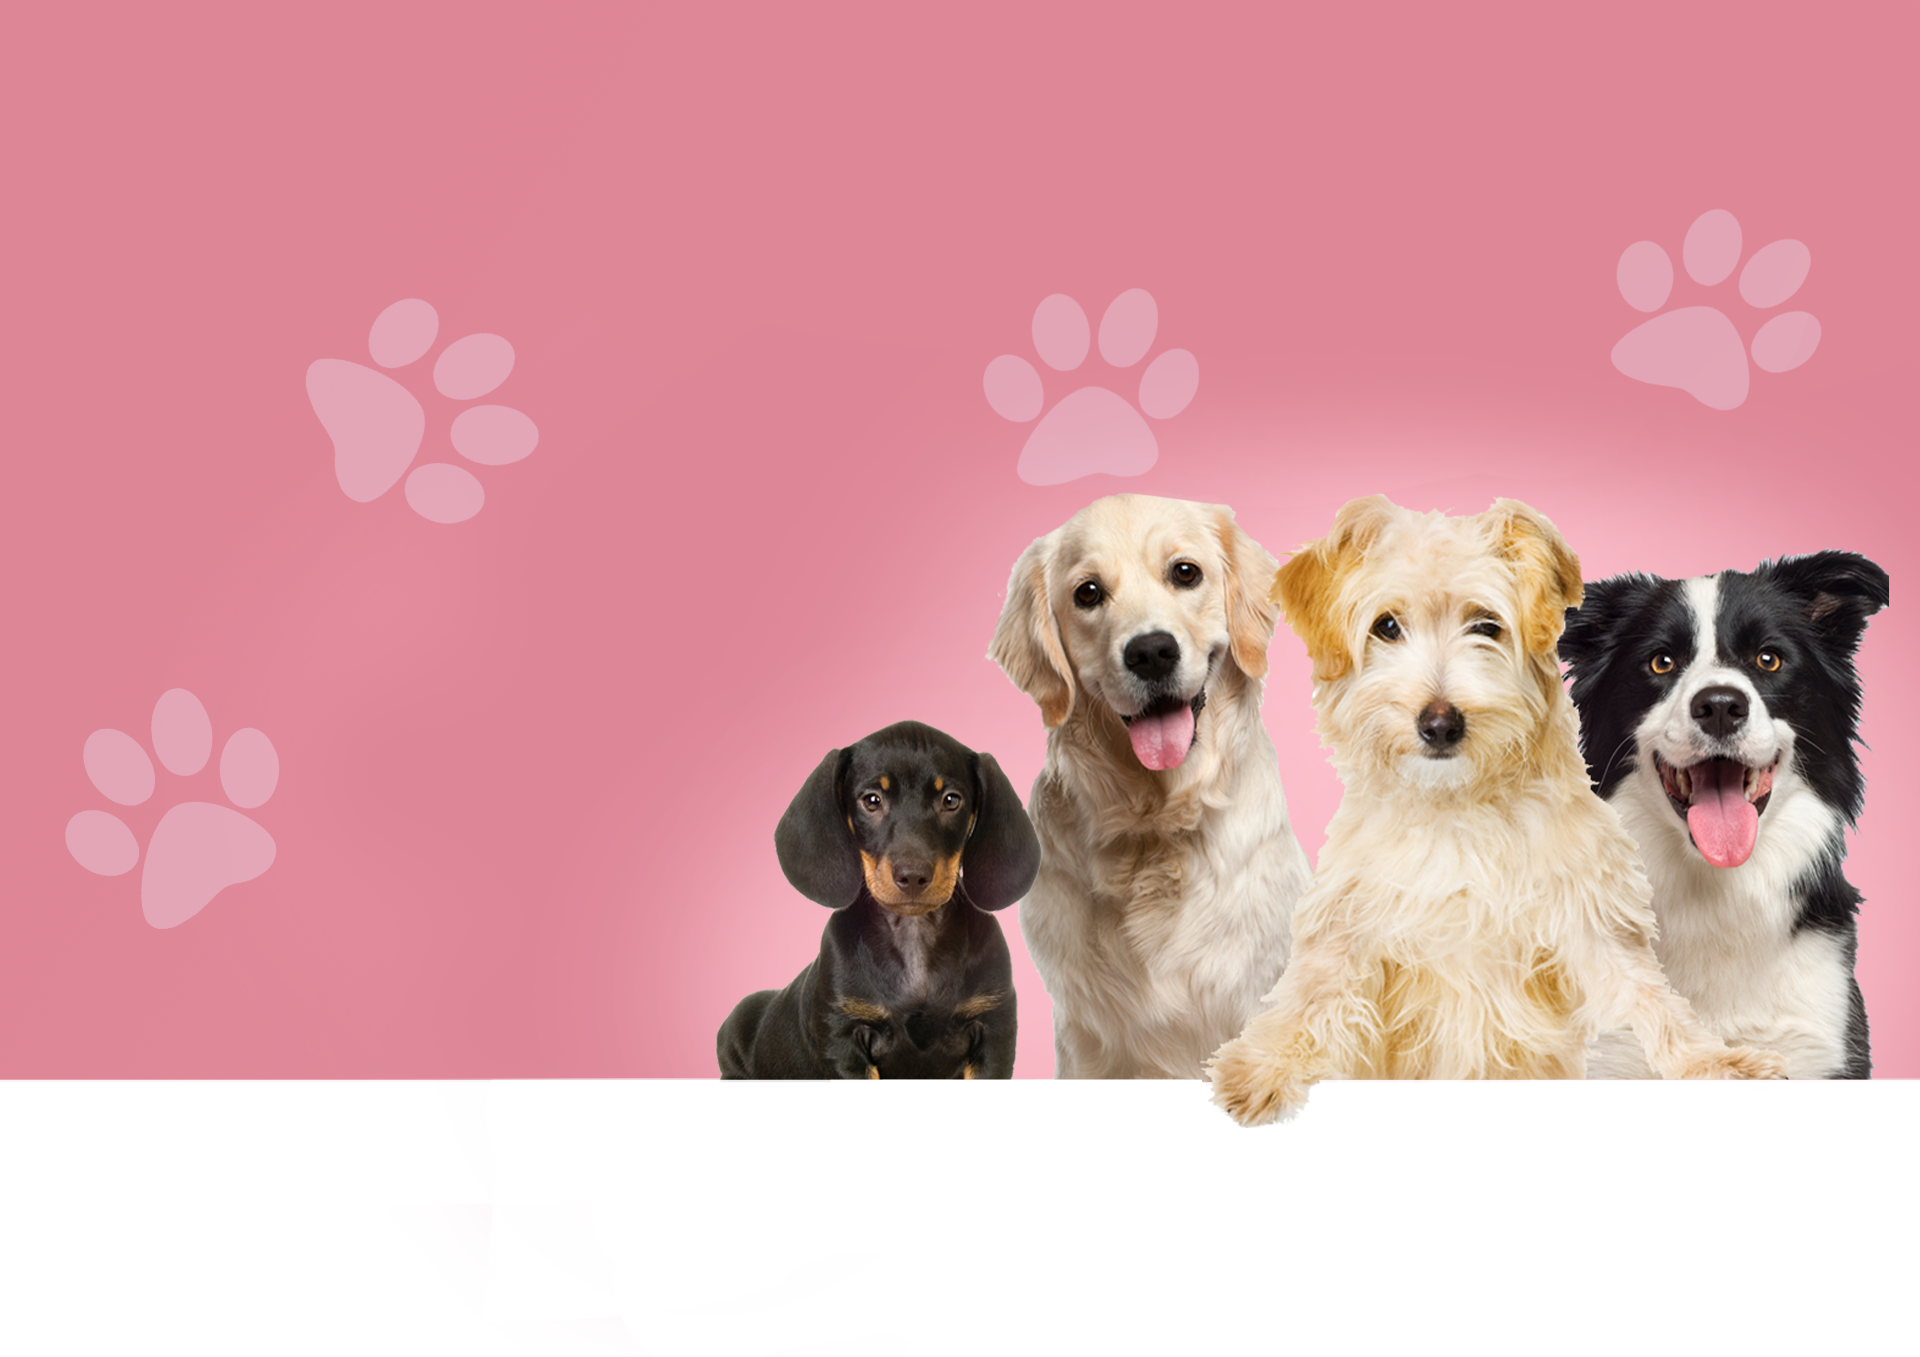
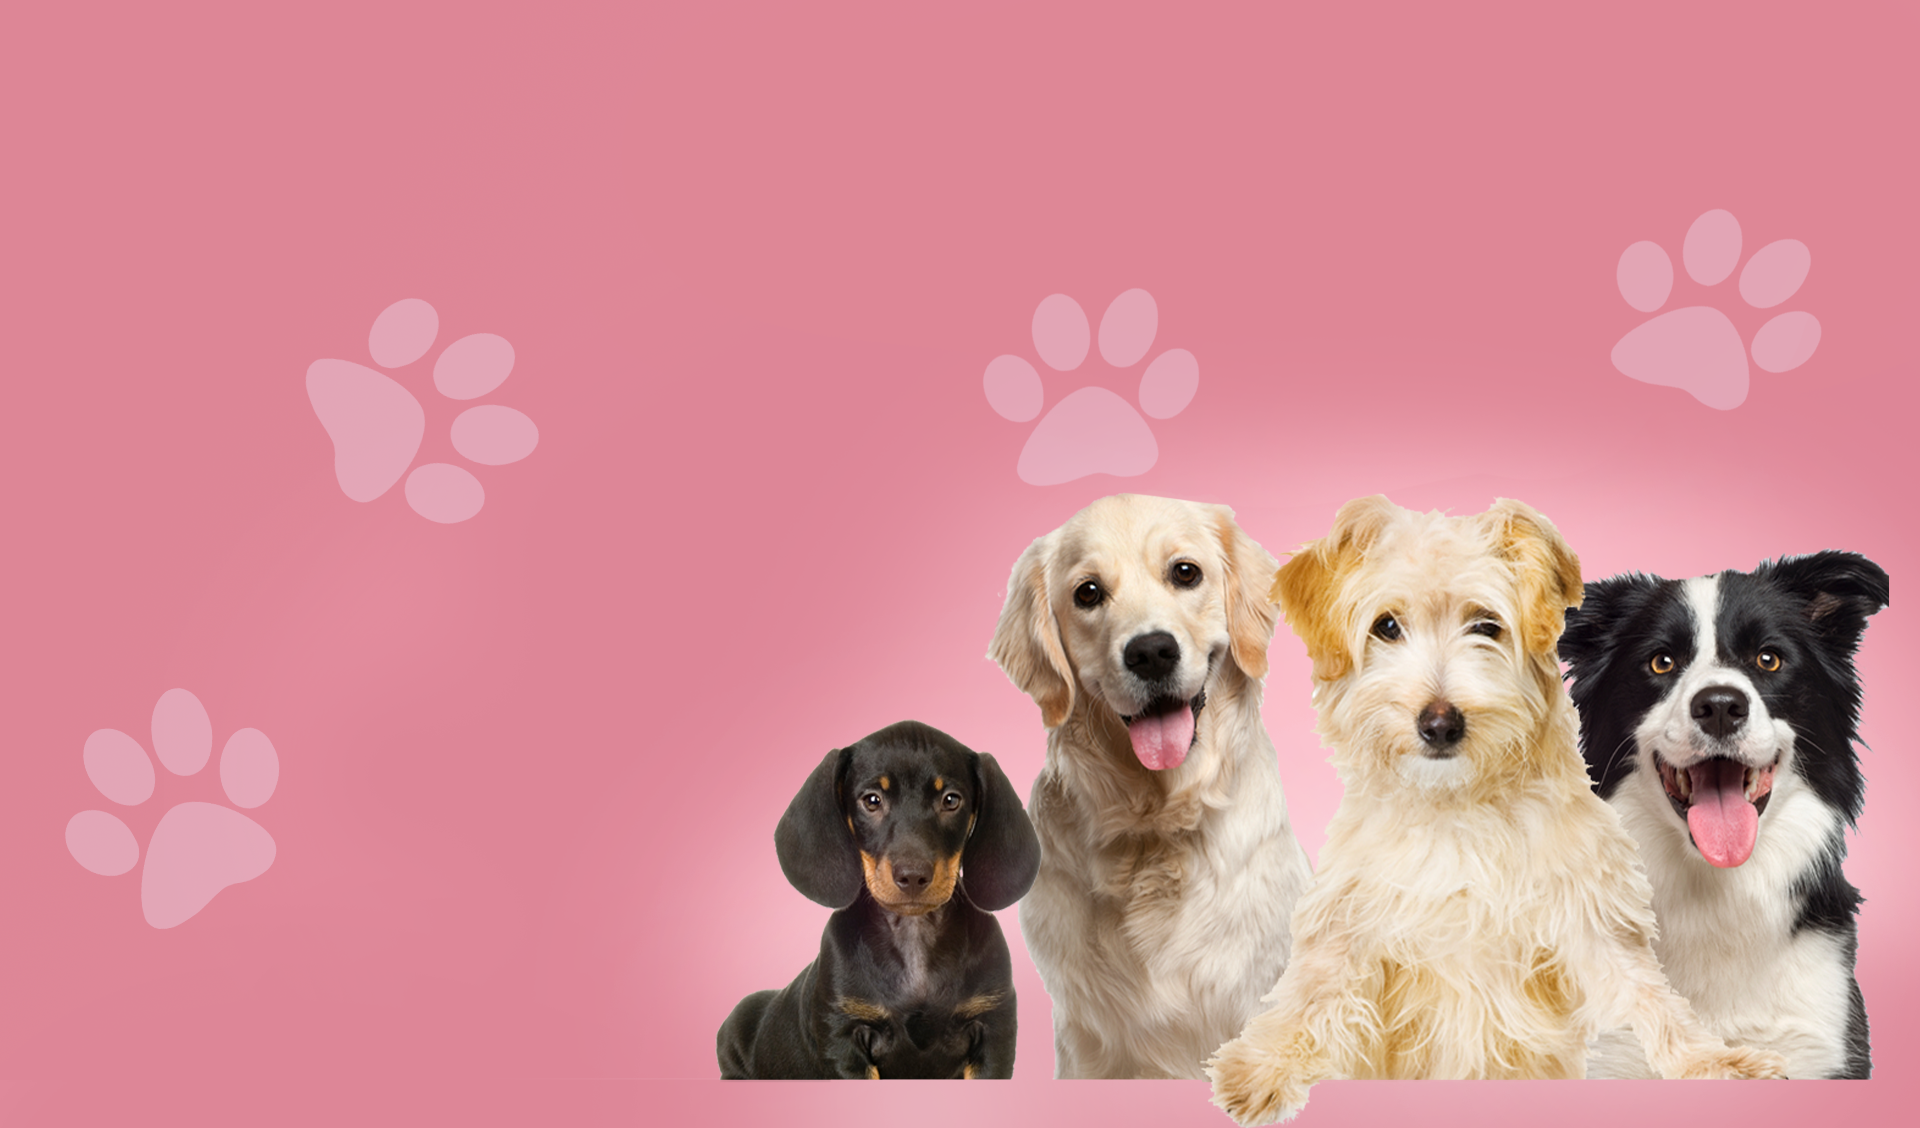
Atualizações

diff --git a/html/cachorros.html b/html/cachorros.html
@@ -40,7 +40,7 @@
                     </li>
                     <li class="name-dog">
                         <a href="info_dogs.html">
-                            <img src="../imagens/cachorro-2.png" height="320" width="320">
+                            <img src="../imagens/selfie.jpg" height="320" width="320">
                             <h2>Sortido</h2>
                             <ab class="ab"> Macho | Porte: médio | Idade: 2 meses</ab></br></br>
                             <p></p>
@@ -65,8 +65,8 @@
                         <li class="name-dog">
                             <a href="info_dogs.html">
                                 <img src="../imagens/cachorro-4.png" height="320" width="320">
-                                <h2>Espertinho</h2>
-                                <ab class="ab">Fêmea | Porte: grande | Idade: 2 anos</ab></br></br>
+                                <h2>Soneca</h2>
+                                <ab class="ab">Macho | Porte: pequeno | Idade: 2 anos</ab></br></br>
                                 <p></p>
                                 <ab class="ab"><i>Recife, PE</i></ab>
                             </a>
@@ -76,12 +76,21 @@
                             <a href="info_dogs.html" target="_blank">
                                 <img src="../imagens/cachorro-5.png" height="320" width="320">
                                 <h2>Encrenca</h2>
-                                <ab class="ab">Macho | Porte: médio | Idade: 3 meses</ab></br></br>
+                                <ab class="ab">Fêmea | Porte: pequeno | Idade: 3 meses</ab></br></br>
+                                <p></p>
+                                <ab class="ab"><i>Recife, PE</i></ab>
+                            </a>
+                        <li class="name-dog">
+                            <a href="info_dogs.html" target="_blank">
+                                <img src="../imagens/cachorro-6.png" height="320" width="320">
+                                <h2>Espertinho</h2>
+                                <ab class="ab">Macho | Porte: médio | Idade: 4 anos</ab></br></br>
                                 <p></p>
                                 <ab class="ab"><i>Recife, PE</i></ab>
                             </a>
 
                     </ul>
+                    
             </div>
         </header>
     </section>

diff --git a/html/index.html b/html/index.html
@@ -20,7 +20,7 @@
             <a class="titulo-nav" href="#caixa-2">Por que adotar</a>
             <a class="titulo-nav" href="#caixa-3">Quero Adotar</a>
             <a class="titulo-nav" href="#caixa-3">Quero Ajudar</a>
-            <a class="titulo-nav" href="#caixa-4">Quem somos</a>
+            <a class="titulo-nav smooth-scroll" href="#caixa-4">Quem somos</a>
         </nav>
     </header>
     <section id="caixa-1">
@@ -141,6 +141,28 @@
     </footer>
 
     <script src="../js/script.js"></script>
+    <script src="https://ajax.googleapis.com/ajax/libs/jquery/3.5.1/jquery.min.js"></script>
+
+    <script>
+        $(document).ready(function () {
+            // Quando um link com a classe "smooth-scroll" for clicado
+            $(".smooth-scroll").on("click", function (event) {
+                // Impedir o comportamento padrão do link
+                event.preventDefault();
+
+                // Obter o destino do link (seção correspondente) do atributo "href"
+                var target = $(this).attr("href");
+
+                // Rolar suavemente para o destino usando a função "animate" do jQuery
+                $("html, body").animate(
+                    {
+                        scrollTop: $(target).offset().top
+                    },
+                    1000 // Tempo em milissegundos para a rolagem suave
+                );
+            });
+        });
+    </script>
 </body>
 
 </html>

diff --git a/css/style.css b/css/style.css
@@ -9,7 +9,7 @@
 * {
     margin: 0;
     padding: 0;
-
+    
 }
 
 body {
@@ -25,7 +25,7 @@ a{
 /* NAVBAR */
 
 nav {
-    background-color: #eea6b4;
+    background-color: var(--cor-branco);
 
 }
 
@@ -39,9 +39,10 @@ nav {
     text-decoration: none;
     opacity: 1;
 }
-/*
+
 .titulo-nav:hover {
     transition: 500ms;
+    background-color: var(--cor-fundo-);
     border-radius: 5%;
     padding: 10px;
     box-shadow: 0 3px 3px 0px #888888 ;
@@ -49,11 +50,10 @@ nav {
 
 }
 
-
 .titulo-nav:not(:hover) {
     transition: 500ms;
 }
-*/
+
 nav {
     display: flex;
     justify-content: space-around;
@@ -62,6 +62,10 @@ nav {
 }
 
 /* CAPA */
+
+.caixa-1 {
+    height: 100vh;
+  }
 
 .area-1 {
     text-transform: uppercase;
@@ -73,8 +77,8 @@ nav {
     background-image: url(../imagens/background1.png);
     
     background-repeat: no-repeat;
-    background-size: cover;
-    height: 900px;
+    background-size :100% 100%;
+    height: 700px;
     margin: auto;
     margin-bottom: 50px;
     justify-content: center;
@@ -83,16 +87,16 @@ nav {
 .conteudo {
     visibility: hidden;
     position: absolute;
+    zoom: 0.8;
     top: 50%;
-    left: 50%;
+    left: 40%;
     transform: translate(-50%, -50%);
     text-align: center;
 }
 
 .text-capa {
-
     padding: 20px;
-    font-size: 40px;
+    font-size: 30px;
     text-align: center;
 }
 

diff --git a/html/info_dogs.html b/html/info_dogs.html
@@ -43,7 +43,7 @@
     </section>
     <section class="ficha-2">
         <div class="imagem-2">
-            <img class="img " src="../imagens/cachorro-2.png" width="400px" height="290px">
+            <img class="img " src="../imagens/selfie.jpg" width="400px" height="290px">
         </div>
         <div class="texto-3">
             <h2>SORTIDO</h2></br>

diff --git a/js/script.js b/js/script.js
@@ -5,3 +5,4 @@ sr.reveal('.conteudo', {
     rotate: { x: 80, y: 0, z: 0 },
     distance: '200px' 
 });
+
